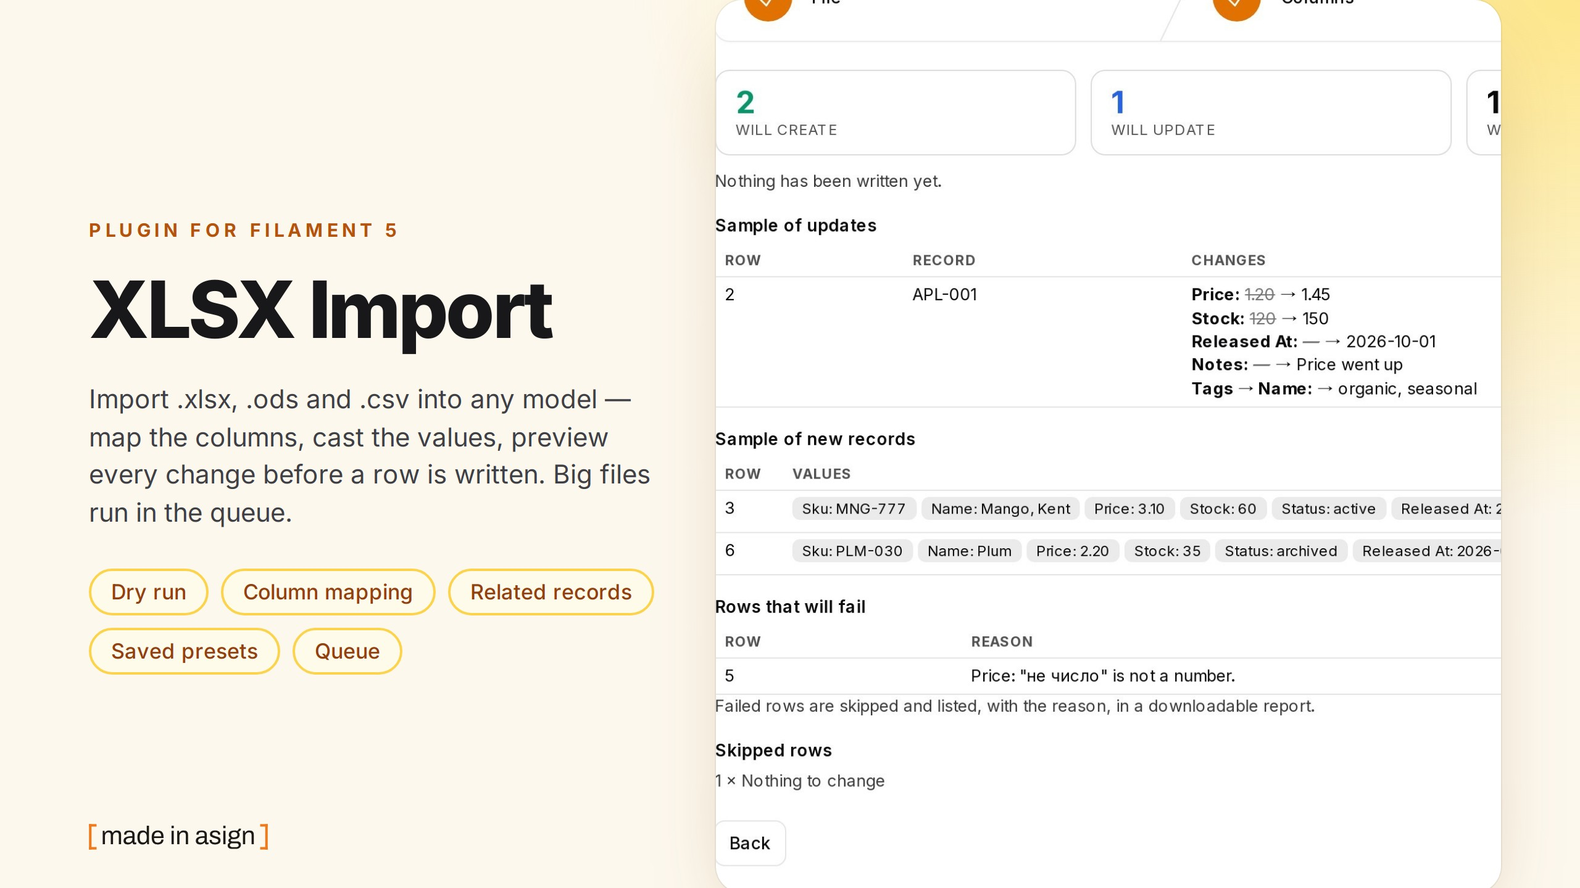
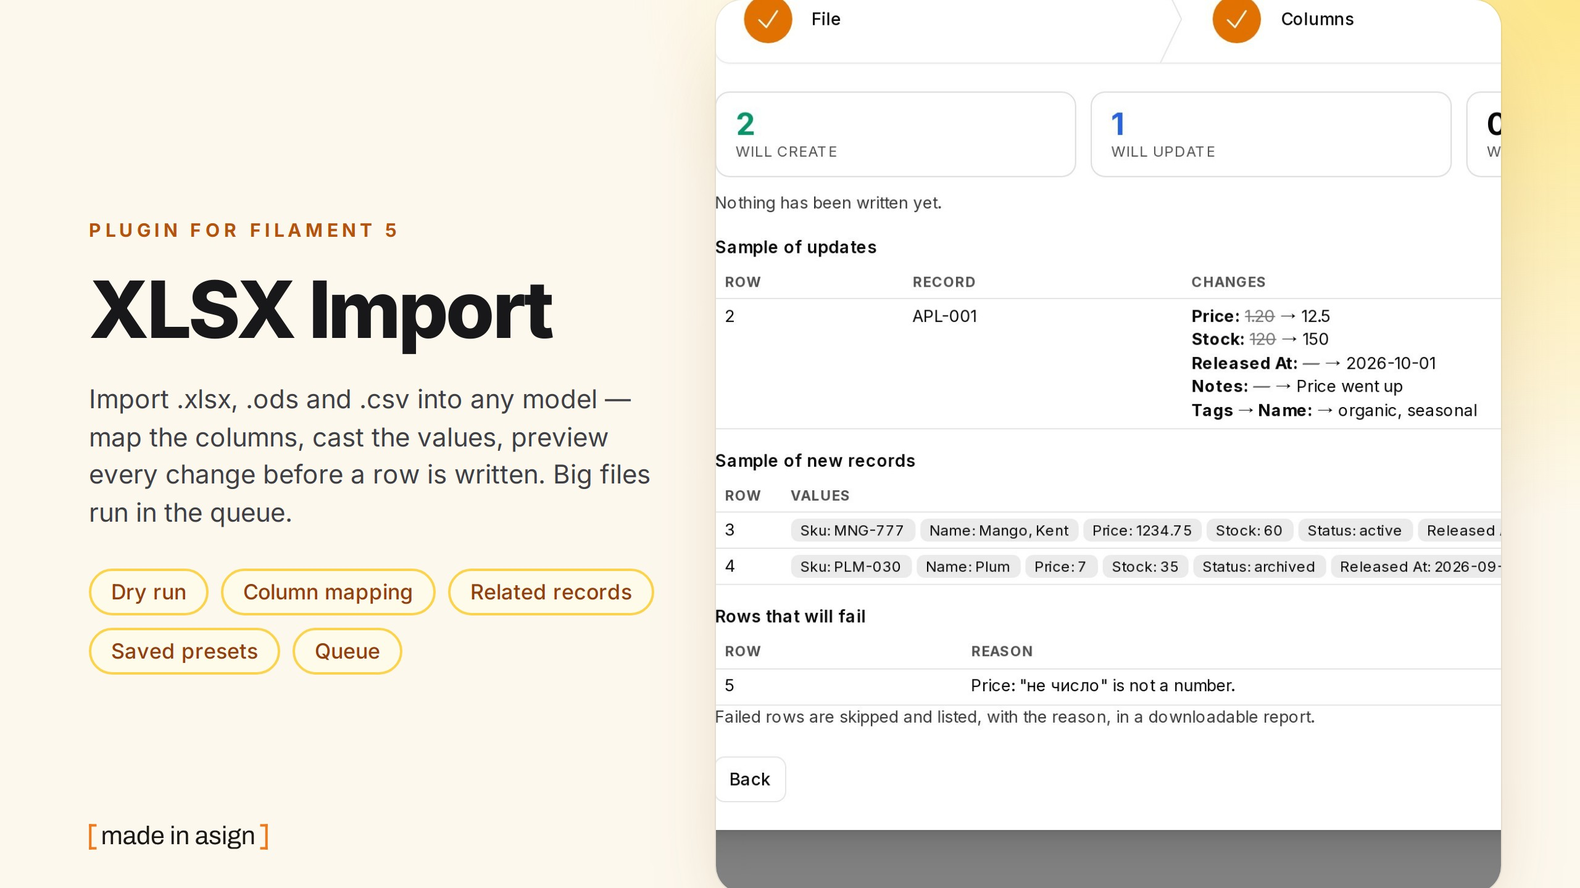
docs+art: fair comparison and eightynine migration table, declaration rules, typed-cell casts; re-shot art; select placeholders
Claude-Session: https://claude.ai/code/session_013WaEUYLN87ZPZAoGfbJM92

diff --git a/src/Actions/XlsxImportAction.php b/src/Actions/XlsxImportAction.php
@@ -863,10 +863,10 @@ class XlsxImportAction extends Action
                                             Select::make('arg')
                                                 ->label(fn (Get $get): string => $t('cast_arg.'.($get('type') ?: 'none')))
                                                 ->options([
-                                                    '' => $t('decimal_auto'),
                                                     '.' => $t('decimal_dot'),
                                                     ',' => $t('decimal_comma'),
                                                 ])
+                                                ->placeholder($t('decimal_auto'))
                                                 ->native(false)
                                                 ->live()
                                                 ->visible(fn (Get $get): bool => $get('type') === 'decimal'),
@@ -884,12 +884,12 @@ class XlsxImportAction extends Action
                                             Select::make('arg2')
                                                 ->label($t('thousands_label'))
                                                 ->options([
-                                                    '' => $t('thousands_unknown'),
                                                     'none' => $t('thousands_none'),
                                                     'space' => $t('thousands_space'),
                                                     '.' => $t('thousands_dot'),
                                                     ',' => $t('thousands_comma'),
                                                 ])
+                                                ->placeholder($t('thousands_unknown'))
                                                 ->native(false)
                                                 ->live()
                                                 ->visible(fn (Get $get): bool => $get('type') === 'decimal'),
@@ -939,7 +939,7 @@ class XlsxImportAction extends Action
                                     ->visible(fn (Get $get): bool => filled($get('target')) && (array) $get('samples') !== []),
                             ]),
                         ]),
-                    ])->extraAttributes(fn (Get $get): array => $get('only_unmapped', isAbsolute: true) && filled($get('target')) ? ['style' => 'display: none'] : []),
+                    ])->extraAttributes(fn (Get $get): array => $get('../../only_unmapped') && filled($get('target')) ? ['class' => 'xi-hidden'] : []),
                 ]),
             Group::make($this->importerOptions($definition))->statePath('options')->visible($definition->importer !== null && $this->importerOptions($definition) !== []),
             Grid::make(['default' => 1, 'md' => 2])->schema([

diff --git a/resources/boost/guidelines/core.blade.php b/resources/boost/guidelines/core.blade.php
@@ -9,3 +9,4 @@
 - Run `php artisan xlsx-import:prune` (scheduled daily) to delete old uploads and failed-row reports.
 - Zero config never offers the primary key, timestamps, `$hidden`/secret/privilege columns or the tenant column, and only `belongsTo`/`hasOne` relations; for user-like or role-like models list targets explicitly with `->only([...])`, `->relations([...])` or `'targets'` in `importRules()`. Creating related records needs their `create` policy or `->allowCreatingRelated()`; `authorizeRecords()` is on by default when a policy exists.
 - Re-running a half-finished import needs an upsert key (`->updateBy()`), otherwise the rows already saved are created again.
+- A fully guarded model (`$guarded = ['*']` or neither property — eEgnith's) offers NO targets: pass `->only([...])` or `'targets'` in `importRules()`. `$fillable` is used as the whole list; JSON columns and `*_id` keys are never offered; text decimals need a declared separator (a number cell is always safe).

diff --git a/resources/views/styles.blade.php b/resources/views/styles.blade.php
@@ -31,6 +31,7 @@
         .xi-casts .fi-fo-repeater-item-content { padding: .6rem 2.4rem .6rem .75rem; }
         .xi-casts .fi-fo-repeater-items { gap: .5rem; }
         .xi-sticky { position: sticky; top: 0; z-index: 5; padding: .4rem .75rem; border-radius: .5rem; background: color-mix(in oklab, Canvas 94%, currentColor 6%); backdrop-filter: blur(4px); font-weight: 600; }
+        .xi-hidden { display: none !important; }
         .xi-wrap { overflow-wrap: anywhere; word-break: break-word; }
         .xi-sample { font-family: ui-monospace, monospace; font-size: .8rem; overflow-wrap: anywhere; }
         .xi-chip { overflow-wrap: anywhere; }

diff --git a/README.md b/README.md
@@ -14,7 +14,7 @@ the casts, **preview every change without writing a row**, then apply — inline
 It is the import companion of [filament-xlsx-export](https://github.com/asignua/filament-xlsx-export) and a maintained
 successor of `eightynine/filament-excel-import` (Filament 4 only, [issue #63](https://github.com/eighty9nine/filament-excel-import/issues/63)).
 
-- Zero config: point it at a model. The targets come from the database columns, `$casts` and the `belongsTo` / `hasOne` relations — **minus everything a file must not touch** (see [What a file may write to](#what-a-file-may-write-to)). A Filament `Importer` class is optional — and works as it is when you have one.
+- Zero config: point it at a model. The targets follow what the model declares (`$fillable` / guarded), its `$casts` and its `belongsTo` / `hasOne` relations — **conservative, not safe**: see [What a file may write to](#what-a-file-may-write-to) and list the targets explicitly for user-, role- and billing-like models. A Filament `Importer` class is optional — and works as it is when you have one.
 - **Dry run** with a «will create / update / skip / fail» summary and the field-level diff of the updates, before anything is written.
 - **Casts per column** (trim, case, integer, decimal with `,` or `.`, yes/no incl. `так/ні`, date with a source format, enum value tables, JSON, split to a list, default, regex), chained, pre-selected from the model's `$casts`.
 - **Model rules** (`DefinesImport`): aliases, casts, validation, upsert key, relation behaviour — pre-filled and marked «from model rules»; the user may change them **for one run**, with «Reset to model rule».
@@ -104,12 +104,14 @@ upsert is whatever its `resolveRecord()` does; `->updateBy()` is for the model m
 
 ## What a file may write to
 
-An import runs with `forceFill()` (so mass assignment can stay off). That makes the list of targets a security decision, so the zero-config list is conservative:
+An import runs with `forceFill()` (so mass assignment can stay off). That makes the list of targets a security decision. **Zero config follows what the developer declared, and it is conservative — not safe by itself.**
 
-- **Never offered:** the primary key, timestamps and `deleted_at`, every `$hidden` attribute, secrets (`password`, `remember_token`, `api_token`, `*_secret`, `*_token`, `two_factor_*`), privilege flags (`is_admin`, `role`, `permissions`…) and — when the panel has tenancy — the tenant ownership column.
-- A model with a non-empty **`$fillable`** is restricted to it (models with `$guarded = ['*']`, as in eEgnith, use the deny-list above).
-- **Relations:** `belongsTo` and `hasOne` are discovered; **`belongsToMany` only when you name it** (`->relations(['tags'])` or `'relations'` in `importRules()`); role/permission relations (spatie `Role`/`Permission`, relations named `roles`/`permissions`) are never offered unless you name them yourself.
-- The upsert key can only be one of the offered attributes — never the primary key — and the server re-checks every target and the key against that list, whatever the browser sends.
+- A model with a non-empty **`$fillable`**: exactly that list.
+- A model with `$guarded = [...]` (not `['*']`): every column that is not guarded.
+- A **totally guarded model** — `$guarded = ['*']`, or Eloquent's default with neither property (eEgnith's models are like this): **nothing is offered**. The import refuses to start and says, to the developer, to declare it: `->only([...])` on the action or `'targets'` in `importRules()`.
+- On top of that, never offered, whatever the model says: the primary key, timestamps and `deleted_at`, `$hidden` attributes, names that look like secrets or privileges (`password`, `*_token`, `*_secret`, `two_factor_*`, `is_admin`, `role`… — camelCase read as snake_case), the tenant ownership column under tenancy, **JSON columns** and **integer `*_id` foreign keys** (reach those through the relation lookup).
+- **Relations:** only `belongsTo` and `hasOne`; `belongsToMany` only when you name it (`->relations(['tags'])`). Related fields follow the same declaration rules **on the related model** (its `$fillable`/guarded, or list `relation.field` in `only`). The app's **login model** (`auth.providers.*.model`) and role/permission models are never discovered as a relation target; `->relations(['account'])` plus the field in `only` is the only way.
+- The upsert key can only be one of the offered attributes (never the primary key), and the server re-checks every target and the key against that list, whatever the browser sends.
 
 ```php
 XlsxImportAction::make()->model(Member::class)->only(['name', 'email', 'phone'])->updateBy('email');   // an explicit allowlist
@@ -117,11 +119,11 @@ XlsxImportAction::make()->model(Product::class)->except(['cost_price'])->relatio
 // or in DefinesImport::importRules(): 'targets' => [...], 'except' => [...], 'relations' => [...]
 ```
 
-`only()` may list the primary key or a secret: that is then your decision. **For user-like and role-like models always list the targets explicitly** — flags such as `is_active` or a custom `level` column cannot be recognised by name.
+`only()` may list the primary key or a secret: that is then your decision. **For user-like, role-like and billing-like models always list the targets explicitly** — flags such as `is_active`, `level`, `plan` cannot be recognised by name.
 
-**Authorization.** `->authorizeRecords()` checks the model policy for every row — `update` *after* the new values are in the model and before it is saved, so a policy that looks at the new state sees it. It is **on by default when a policy is registered for the model** (`->authorizeRecords(false)` switches it off); without a policy rows are not checked, as in Filament's own importer.
+**Authorization.** `->authorizeRecords()` checks the model policy for every row — `update` *after* the new values are in the model and before it is saved. It is **on by default when a policy is registered for the model** (`->authorizeRecords(false)` switches it off); without a policy rows are not checked, as in Filament's own importer. **Writing into a related record** (`hasOne`) is a write to that model: its `update` policy for an existing record, its `create` policy for a new one — without a policy it is refused unless you call `->allowCreatingRelated()`.
 
-**Related records.** «Create it» is a request, not a permission: a rule with `'mode' => 'lookup'` locks the relation (unless it says `'allow_create' => true`), and creating needs the related model's `create` policy for the user — without a policy it is refused unless you call `->allowCreatingRelated()`. Attaching to a parent requires `update` on the parent (the check above).
+**Related records.** «Create it» is a request, not a permission: a rule with `'mode' => 'lookup'` locks the relation (unless it also says `'allow_create' => true`), and creating needs the related model's `create` policy for the user — otherwise the option is not offered (the screen says why) and the server refuses it anyway. Attaching to a parent requires `update` on the parent (the check above).
 
 **Tenancy.** With a Filament tenant the lookup of existing records, the lookups and creations of related records are scoped to the current tenant (through the panel's ownership relationship), new records are stamped with it, and the tenant is restored in the queue worker. `->relatedQueryUsing(fn (Builder $query, string $relatedClass) => …)` narrows related lookups further (or covers models without the ownership relationship).
 
@@ -139,6 +141,8 @@ class Product extends Model implements DefinesImport
     {
         return [
             'update_by' => 'sku',
+            'targets' => ['sku', 'price', 'released_at', 'category.name', 'tags.name'],   // a guarded model must say what a file may write to
+            'relations' => ['tags'],
             'fields' => [
                 'sku' => ['aliases' => ['article', 'артикул'], 'casts' => ['trim', 'upper'], 'rules' => ['required', 'max:40'], 'required' => true],
                 'price' => ['casts' => ['trim', ['type' => 'decimal', 'arg' => ',']], 'rules' => ['numeric', 'min:0']],
@@ -151,7 +155,7 @@ class Product extends Model implements DefinesImport
 }
 ```
 
-Per field: `aliases` (header synonyms), `casts`, `rules` (Laravel validation, applied to the cast value), `required` (the column
+Besides `fields`: `targets` / `except` / `relations` (see [What a file may write to](#what-a-file-may-write-to)). Per field: `aliases` (header synonyms), `casts`, `rules` (Laravel validation, applied to the cast value), `required` (the column
 must be mapped), `mode` (`lookup` or `create`, for related records), `many` (`add` or `replace`, for many-to-many).
 The same array shape works in `XlsxImportAction::make()->fieldRules([...])->updateBy('sku')->aliases([...])` for one action.
 
@@ -165,25 +169,29 @@ Headers are matched in this order: the field name or label, your aliases, built-
 
 ## Casts
 
-A pipeline of steps per mapped column. Chosen in the UI, predefined in rules (`'trim'`, `'decimal:,'`, `['type' => 'date', 'arg' => 'd.m.Y']`):
+A pipeline of steps per mapped column. Chosen in the UI, predefined in rules (`'trim'`, `'decimal:,'`, `['type' => 'date', 'arg' => 'd.m.Y']`). Every column card shows a live line — the first sample of the file run through the pipeline («1,5 → 1.5»).
+
+**Cells keep their type.** A number cell reaches the casts as a number, a date cell as a date, a boolean cell as a boolean — separator rules and date formats are only for *text*. A cell holding `12.5` is 12.5 under a decimal-comma rule too (never 125); a date cell is a date whatever `d.m.Y` says about text dates. CSV cells are always text.
 
 | Step | What it does | Option |
 | --- | --- | --- |
 | `trim`, `string`, `upper`, `lower` | text | — |
-| `integer` | whole number, spaces and `5.0` tolerated | — |
-| `decimal` | `1.234,50` → `1234.50` | decimal separator `,` or `.` |
+| `integer` | whole number; `5.0` and spaces tolerated | — |
+| `decimal` | text → number | decimal separator (`.`, `,`, empty = auto) and thousands separator (`.`, `,`, `space`, `none`, empty = not declared) |
 | `boolean` | `1/true/yes/y/так/т/+/да/ja/tak/oui/si` and the opposites | true words, false words |
-| `date`, `datetime` | to `Y-m-d` / `Y-m-d H:i:s`; Excel serials understood | source format, e.g. `d.m.Y` |
-| `enum` | a **value table**: every distinct value found in the file, with what it becomes | enum class (optional: resolves case names, values and `getLabel()`) |
+| `date`, `datetime` | to `Y-m-d` / `Y-m-d H:i:s`; real date cells, ISO text and Excel serials are taken as they are | a format for text dates: picker (31.01.2026, 01/31/2026, 2026-01-31, 31/01/2026, …) or your own |
+| `enum` | a **value table**: every distinct value of the file → a *select of the enum cases with their labels*; names, values and labels are guessed case-insensitively | — |
 | `json` | decodes to an array | — |
 | `split` | `a; b;c` → list (for many-to-many and arrays) | separator |
 | `default` | when the cell is blank | the value |
 | `regex` | `preg_replace` | pattern, replacement |
 | `null_if_empty` | blank → `null` | — |
 
+**Text numbers are never guessed.** With an empty (auto) decimal separator `12,5` and `12.50` are decimals, `1.234,50` has its last separator as the decimal point, `1.234.567` is grouping — and a lone `1,234` / `1.234` (three digits after one separator) is **refused** as ambiguous. A rule that declares `,` refuses a lone `12.5`; declare both separators (`'arg' => ',', 'arg2' => '.'`) and `1.234` is 1234.
+
 The model's `$casts` and column types pre-select a sensible pipeline (`decimal:2` → trim + decimal, a backed enum → the value table, …).
 A value that does not fit fails **that row** with a message that names the field and the value («Price: "abc" is not a number»).
-**Blank cells are ignored** (they never wipe a field).
+**Blank cells are ignored**: they never wipe a field, and the validation rules of a field with no value do not run (`required` still does).
 
 ## Related records
 
@@ -289,32 +297,44 @@ the report route, schedule, CSV fallback encodings and delimiters, presets, defi
 | | **asignua/filament-xlsx-import** | eightynine/filament-excel-import | romansulzhyk/filament-import |
 | --- | --- | --- | --- |
 | Filament 5 | yes (tested on 5.11) | no stable release; `4.x` only ([#63](https://github.com/eighty9nine/filament-excel-import/issues/63)) | yes |
-| Works with no Importer / import class | yes — from the model | you write an import class | needs a Filament `Importer` |
-| Runs an existing Filament `Importer` | yes | no | yes |
-| xlsx / ods / csv | yes | xlsx / csv | xlsx / csv |
-| CSV encodings & delimiter sniffing | yes (BOM, UTF-16/32, 1251/1252) | — | yes |
-| Header → target mapping the user can correct | yes, with samples, casts, related records | — | automatic mapping (many languages) |
-| Related models (`belongsTo`, `hasOne`, many-to-many) | yes, lookup or create | via your code | via the Importer |
+| Zero-config import of a model | yes — from what the model declares, plus a mapping screen | yes — `ExcelImportAction::make()` maps the file's headers onto the model's `$fillable` | needs a Filament `Importer` |
+| Your own import class | a Filament `Importer` (`->importer()`) — not a Laravel Excel import class | a Laravel Excel import class (`use()`) | a Filament `Importer` |
+| xlsx / ods / csv | yes | xlsx / csv (Laravel Excel) | xlsx / csv |
+| CSV encodings & delimiter sniffing | yes (BOM, UTF-16/32, 1251/1252) | whatever Laravel Excel reads | yes |
+| User-corrected mapping with samples, casts, related records | yes | headers by name, no mapping screen | automatic mapping (many languages) |
+| Blank template download | yes — from the definition, rule-consistent examples, dropdowns for enums | yes (`sampleExcel()`) | no |
 | Dry run with a diff | yes | no | no |
-| Queue for big files + notification | yes | via Laravel Excel's queue | no |
+| Queue for big files + notification | yes (one chunked job) | via Laravel Excel's queue | no |
 | Failed-rows report as `.xlsx` | yes (text-only cells) | no | yes |
-| Template download with dropdowns | yes | no | no |
 | Saved presets | yes | no | no |
 | Interface languages | en, uk | — | 63 |
 
-The other two columns are read from their READMEs at the time of writing (November 2026) — check them for changes. We keep it honest: `romansulzhyk/filament-import` has far more interface translations and maps headers written in many languages out of
-the box; here the built-in synonyms cover en/uk/de/pl/fr/es and everything else is your aliases. Neither alternative has a
-dry run, presets or model-level rules; we have no other-language UI beyond English and Ukrainian yet.
+The other two columns are my reading of their READMEs in November 2026 — check them for changes. Be fair to them: `eightynine/filament-excel-import` is the simplest thing that works
+(one line, columns by header, a sample file) and has a long list of per-import closures (below) that this plugin deliberately does not copy; `romansulzhyk/filament-import` has far more interface translations
+and maps headers written in many languages out of the box (here the built-in synonyms cover en/uk/de/pl/fr/es and everything else is your aliases). What this plugin adds is the mapping/casts/dry-run/queue/preset layer
+and a stricter default about what a file may write to.
 
 ## Migrating from eightynine/filament-excel-import
 
 1. `composer remove eightynine/filament-excel-import && composer require asignua/filament-xlsx-import`.
-2. Replace the `ExcelImportAction` (the one that pointed at a Laravel Excel import class) with `XlsxImportAction::make()->model(Product::class)`.
-   If you had a Filament `Importer`, use `->importer(ProductImporter::class)` instead.
-3. What lived in the import class moves to [model rules](#model-rules): the column → attribute map to `aliases`,
-   `prepareForValidation` / casting to `casts`, the `rules()` array to `rules`, `updateOrCreate` keys to `update_by`.
-   Anything custom (a repository, events) goes to `->saveUsing()`.
+2. Replace the `ExcelImportAction` with `XlsxImportAction::make()->model(Product::class)`, or `->importer(ProductImporter::class)` if you have a Filament `Importer`.
+3. **`$fillable` means something different here.** There the columns are mapped onto `$fillable`. Here a non-empty `$fillable` is the whole list too — but a **totally guarded model** (`$guarded = ['*']`, or neither property) offers *nothing* until you say what: `->only([...])` or `'targets'` in `importRules()`. JSON columns, `*_id` keys, secrets and the primary key are never offered by themselves (see [What a file may write to](#what-a-file-may-write-to)).
 4. Queued imports: `->queue()` / `->queueWhenMoreThan(n)`, and make sure the panel has `->databaseNotifications()`.
+
+Their API, and what to use here (from their README; verify against the version you run):
+
+| eightynine | here |
+| --- | --- |
+| `use(ImportClass::class)` | `->importer(Importer::class)` for a Filament `Importer`; a Laravel Excel import class is **not supported** — move its mapping to [model rules](#model-rules) |
+| `validateUsing([...])` | `'rules'` per field in `importRules()` / `->fieldRules([...])`; validation runs on the cast values and skips blank cells |
+| `mutateBeforeValidationUsing()` / `mutateAfterValidationUsing()` | [casts](#casts) (`trim`, `lower`, `regex`, `default`, `enum` value tables…); anything else → `->saveUsing()` |
+| `beforeImport()` / `afterImport()` | **not supported** as hooks; use model observers, or the hooks of a Filament `Importer` |
+| `additionalData()` / `customImportData()` | `->saveUsing(fn (array $data, ?Model $existing, ImportContext $ctx) => …)` to add values; a constant default per column is the `default` cast |
+| `beforeUploadField()` / `afterUploadField()` | **not supported** — the upload step is the plugin's |
+| `processCollectionUsing()` | `->saveUsing()` (per row, with the cast row and `ImportContext`) |
+| `sampleExcel()` | built in: «Download a blank template»; `->templateExample(false)` drops the example row |
+| `stopImportWith*` | **not supported**: a bad row is skipped and listed in the failed-rows report; `->maxRows()` and `->maxFileSize()` refuse a file up front |
+| `createOnly` / upsert via the import class | `->updateBy('email')`, `->createOnly()`, `->updateOnly()` |
 
 Your users now see a column-mapping step instead of a fixed layout; a model with `importRules()` pre-fills it, so for them the flow stays «upload → check → import».
 

diff --git a/CHANGELOG.md b/CHANGELOG.md
@@ -27,3 +27,10 @@ Security hardening (from an independent review, before the first tag):
 - `authorizeRecords()` checks after the new values are filled and defaults to on when the model has a policy.
 - Dry run and row transactions use the model's (and related models') connection; an implicit commit aborts the preview.
 - A crashed run reports how many rows were already saved; `queue.after` hook; the worker's URL root is restored; run ids are bound to user, guard, panel and target; presets are scoped by guard, panel and tenant and restore the key and mode; no SQL/bindings in row errors; row limit enforced while streaming and a column cap.
+
+Second review round (before the first tag):
+
+- Targets follow what the developer declared: `$fillable` is the whole list, a fully guarded model offers nothing until `->only()` / `targets`; JSON columns, `*_id` keys and camelCase secrets are never offered; related fields follow the related model's declaration; the login model is never an automatic relation target; `hasOne` writes need the related model's `update` / `create` policy.
+- Casts see the cell's own type: a number cell is never read with a thousands rule (12.5 stayed 12.5, not 125), text decimals are declared (decimal + thousands separator) or refused when ambiguous, real date cells and ISO/Excel-serial dates are taken before the text format, blanks skip field rules, the template examples follow the rules.
+- Mapping screen: «from model rules» and reset for whatever target is chosen, enum value table as a select of the cases with labels, date format picker, live «sample → result» line, «create» offered only when allowed (with the reason), «Auto» for CSV encoding/delimiter and the detected values shown, «show only unmapped columns» and a sticky list of the required fields still unmapped.
+- README: fair comparison with eightynine/filament-excel-import and a migration table of its API.
